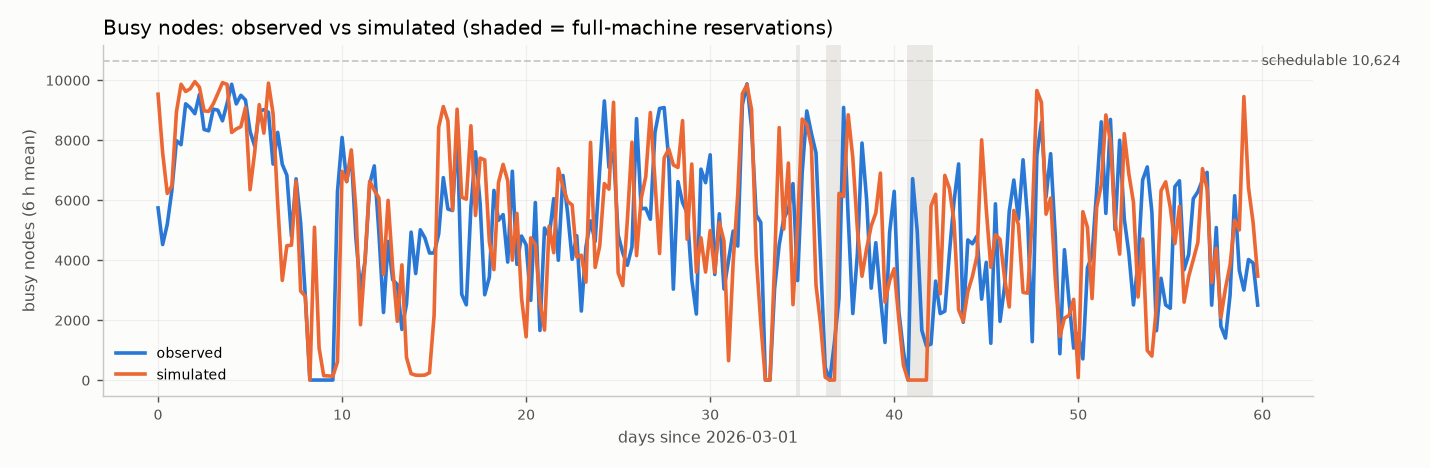
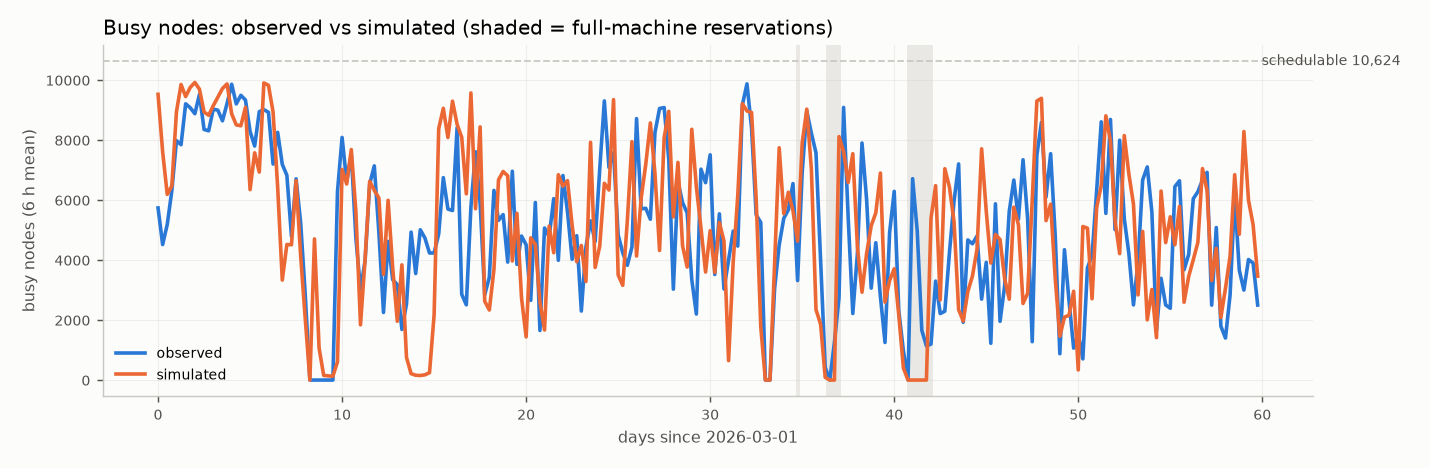
Use Aurora's exact job_sort_formula; note backfill_depth finding
The server formula (qstat -Bf) is
  base_score + score_boost
  + enable_wfp * wfp_factor * eligible_s^2 / clamp(walltime_s, 6h, 12h)^3
                           * project_priority * nodect / total_cpus
  + enable_backfill * min(backfill_max, eligible_s / backfill_factor)
  + enable_fifo * eligible_s / fifo_factor
It matches the form fitted from recorded scores (the fitted constant is
1e5/21600^3; the observed 8x step above 8 h is the 12 h clamp). ALCF_EXACT is
now the default; ALCF_FITTED stays as a candidate.

Replay with the server's backfill_depth=10 is much too optimistic for the
prod queues under strict ordering; depth 1 remains the calibrated default and
the discrepancy is documented in VALIDATION.md.

diff --git a/schedsim/priority.py b/schedsim/priority.py
@@ -8,8 +8,8 @@ public description says: larger jobs gain priority faster, shorter jobs gain
 priority faster, INCITE/ALCC outrank discretionary, negative-balance projects
 are demoted. That is the Cobalt "WFP" lineage: (wait / walltime)^3 * size.
 
-ALCF_FITTED below was fitted to the scores PBS actually recorded (job_history.score);
-replay validation ranks alternative formulas by how well they reproduce observed waits. Variables available to an
+ALCF_EXACT is the server's job_sort_formula (qstat -Bf); ALCF_FITTED is the form
+recovered from recorded scores before the server formula was available. Variables available to an
 expression, all per-job numpy arrays at scoring time:
 
   eligible_h, eligible_s   accrued eligible time (since the job entered its
@@ -29,37 +29,43 @@ from .safe_expr import compile_expr
 VARIABLES = set(SCORING_COLUMNS) | {"eligible_h", "eligible_s", "walltime_h",
                                     "nodes", "total_nodes"}
 
-# Fitted against 312 recorded (job, score) snapshots from job_history (Feb-Jun
-# 2026; R^2 = 0.97 in log space, residual factor ~1.7). See docs/PRIORITY.md.
-#   * project_priority MULTIPLIES the WFP term (INCITE/ALCC 25, ALCC-ish 20, DD 2)
-#   * the WFP term is QUADRATIC in eligible time and linear in node count;
-#     (eligible_s / 1e4)^2 * nodes / total_nodes * project_priority reproduces
-#     the recorded constant (1.2e-5 h^-2 per node per priority unit) within 2%
-#   * fifo queues (debug) add eligible HOURS; backfill queues add
-#     min(backfill_max, eligible_s / backfill_factor)
+# The exact server formula (qstat -Bf, Sept 2026):
+#   job_sort_formula = base_score + score_boost
+#     + enable_wfp * wfp_factor * (eligible_time**2 / min(max(walltime,21600),43200)**3
+#                                  * project_priority * nodect / total_cpus)
+#     + enable_backfill * min(backfill_max, eligible_time / backfill_factor)
+#     + enable_fifo * eligible_time / fifo_factor
+# with eligible_time and walltime in SECONDS, walltime clamped to [6 h, 12 h].
+# Quadratic in eligible time, linear in node count, project priority as a
+# multiplier; jobs requesting <= 6 h accrue 8x faster than 12 h+ jobs.
+ALCF_EXACT = (
+    "base_score + score_boost"
+    " + enable_wfp * wfp_factor * (eligible_s ** 2 / min(max(walltime_h * 3600.0, 21600.0), 43200.0) ** 3"
+    "   * project_priority * nodes / total_nodes)"
+    " + enable_backfill * min(backfill_max, eligible_s / backfill_factor)"
+    " + enable_fifo * eligible_s / fifo_factor"
+)
+# Fitted independently on 312 recorded job_history scores before the server
+# formula was known (docs/PRIORITY.md): identical to ALCF_EXACT for walltime <= 6 h
+# (1e5 / 21600**3 = 0.99e-8 ~ (1/1e4)**2) and missing only the 6-12 h clamp.
 ALCF_FITTED = (
     "base_score + score_boost"
     " + enable_wfp * project_priority * nodes / total_nodes * (eligible_s / 1e4) ** 2"
     " + enable_fifo * eligible_h"
     " + enable_backfill * min(backfill_max, eligible_s / backfill_factor)"
 )
-ALCF_WFP = ALCF_FITTED
+ALCF_WFP = ALCF_EXACT
 
 CANDIDATES = {
+    "alcf_exact": ALCF_EXACT,
     "alcf_fitted": ALCF_FITTED,
-    # earlier reconstruction (cubic, additive project priority) kept for comparison
-    "alcf_cubic": (
-        "base_score + score_boost + project_priority"
-        " + enable_wfp * wfp_factor * (eligible_h / walltime_h) ** 3 * nodes / total_nodes"
-        " + enable_fifo * eligible_s / fifo_factor"
-        " + enable_backfill * min(backfill_max, eligible_s / backfill_factor)"),
     "fifo": "eligible_s",
     "size_then_fifo": "nodes * 1e6 + eligible_s",
 }
 
 
 class ExprPriority:
-    def __init__(self, expr: str = ALCF_FITTED, total_nodes: int = 10_624):
+    def __init__(self, expr: str = ALCF_EXACT, total_nodes: int = 10_624):
         self.expr = expr
         self.total_nodes = float(total_nodes)
         self._fn = compile_expr(expr, VARIABLES)

diff --git a/schedsim/config.py b/schedsim/config.py
@@ -76,7 +76,7 @@ class MachineSpec:
 
 @dataclass(frozen=True)
 class PrioritySpec:
-    expr: str = "alcf_fitted"        # a CANDIDATES name or a literal expression
+    expr: str = "alcf_exact"        # a CANDIDATES name or a literal expression
     candidates: tuple = ()        # extra names/expressions to run and rank
 
 

diff --git a/docs/VALIDATION.md b/docs/VALIDATION.md
@@ -20,7 +20,7 @@ Each item below was found by a replay mismatch, then confirmed in the data.
 | PBS cycles are event-driven with a latency floor | debug-queue median wait 4 min at 20% load; simulated 8 min with 10-min cycles | passes on arrival/finish, cycle time ~1 s per job examined, 2.5 min dispatch latency, in-cycle rank offset |
 | Prod queues run in strict priority order | 30% of small-queue jobs waited >1 h with enough free nodes; queues carry `enable_backfill` 0 (prod) / 1 (backfill-*) | `ordering: strict_groups` = PBS strict_ordering with `backfill_depth` reservations inside the small/medium/large family |
 | Dependencies and holds delay eligibility | 15% of prod jobs carry `depend`; small-queue median wait from `etime` is 1.2 h vs 1.9 h from submit | arrival = `etime`; waits still measured from submit |
-| The sort formula is quadratic, size-linear, priority-multiplicative | fitted on recorded `job_history.score` (see PRIORITY.md) | `ALCF_FITTED` default |
+| The sort formula is quadratic, size-linear, priority-multiplicative, walltime clamped 6-12 h | fitted on recorded `job_history.score`, then confirmed by the server's `job_sort_formula` (see PRIORITY.md) | `ALCF_EXACT` default |
 | Debug runs on dedicated shared nodes | debug never exceeded 56 running nodes; real debug waits are unaffected by machine load | 64-node partition |
 | Users pace submissions under `max_queued` | per-project queued+running never exceeds 10-11 in the trace | replay does not re-apply the holdback (`enforce_queued_limits: false`); synthetic workloads must |
 
@@ -43,7 +43,15 @@ Window 2026-03-01 to 2026-04-30, 53,518 jobs, warm-up 3 days, 48 h cooldown.
 
 Utilisation vs 9,600 reportable nodes: observed 51.2%, simulated 50.8%.
 Formula ranking by fit (KS + |log2 mean ratio| over menu queues):
-`alcf_fitted` 1.19 < `fifo` 1.31 < `alcf_cubic` 1.48.
+`alcf_fitted` 1.19 ~ `alcf_exact` 1.22 < `fifo` 1.31 (the two ALCF forms are
+identical for walltimes <= 6 h, which is most jobs).
+
+**Backfill depth.** The server sets `backfill_depth = 10`, but replaying with 10
+reservations per pass under our strict-ordering semantics makes the prod
+queues far too optimistic (small mean 5.5 h, large 3.0 h vs 9.0 / 6.7 observed),
+while depth 1 gives 7.5 / 5.3. ALCF's scheduler hook is evidently stricter than
+"backfill freely around the top ten"; depth 1 remains the calibrated default
+until the hook's rule is known.
 
 ## Fall 2025 (old menu with `tiny`; no node snapshots)
 

diff --git a/docs/PRIORITY.md b/docs/PRIORITY.md
@@ -1,4 +1,25 @@
-# Recovering ALCF's job sort formula
+# ALCF's job sort formula
+
+## The exact formula (server `qstat -Bf`, Sept 2026)
+
+```
+job_sort_formula = base_score + score_boost
+  + enable_wfp * wfp_factor * (eligible_time**2 / min(max(walltime, 21600), 43200)**3
+                               * project_priority * nodect / total_cpus)
+  + enable_backfill * min(backfill_max, eligible_time / backfill_factor)
+  + enable_fifo * eligible_time / fifo_factor
+```
+
+`eligible_time` and `walltime` are in seconds; walltime is clamped to [6 h, 12 h],
+so a job requesting <= 6 h accrues 8x faster than one requesting >= 12 h. This is
+`schedsim.priority.ALCF_EXACT`, the default. Server also reports
+`backfill_depth = 10` and `eligible_time_enable = True`.
+
+## How it was recovered before the server output was available
+
+The fit below was done from recorded scores alone and landed on the same form:
+the constant 1.2e-5 h^-2 is `1e5 / 21600**3` in hour units, and the "K drops by
+~6 for walltime > 8 h" step is the 12 h clamp, `(21600/43200)**3 = 1/8`.
 
 ALCF documents the scheduler only qualitatively (larger jobs gain priority
 faster, shorter jobs gain faster, INCITE/ALCC outrank discretionary, negative

diff --git a/README.md b/README.md
@@ -47,9 +47,10 @@ Outputs per run: `REPORT.md`, `ranking.csv` (priority formulas ranked by fit),
 
 Utilisation against 9,600 reportable nodes: observed 51.2%, simulated 50.8%.
 Details, what had to be modelled to get there, and the remaining gaps are in
-`docs/VALIDATION.md`. The sort formula PBS actually uses was recovered from
-recorded job scores (`docs/PRIORITY.md`): it is quadratic in eligible time,
-linear in node count, and multiplied by project priority.
+`docs/VALIDATION.md`. The scheduler uses Aurora's exact `job_sort_formula`
+(`docs/PRIORITY.md`): quadratic in eligible time, linear in node count,
+multiplied by project priority, with walltime clamped to 6-12 h. The same form
+had been recovered independently from recorded job scores.
 
 ## Design in one paragraph
 
